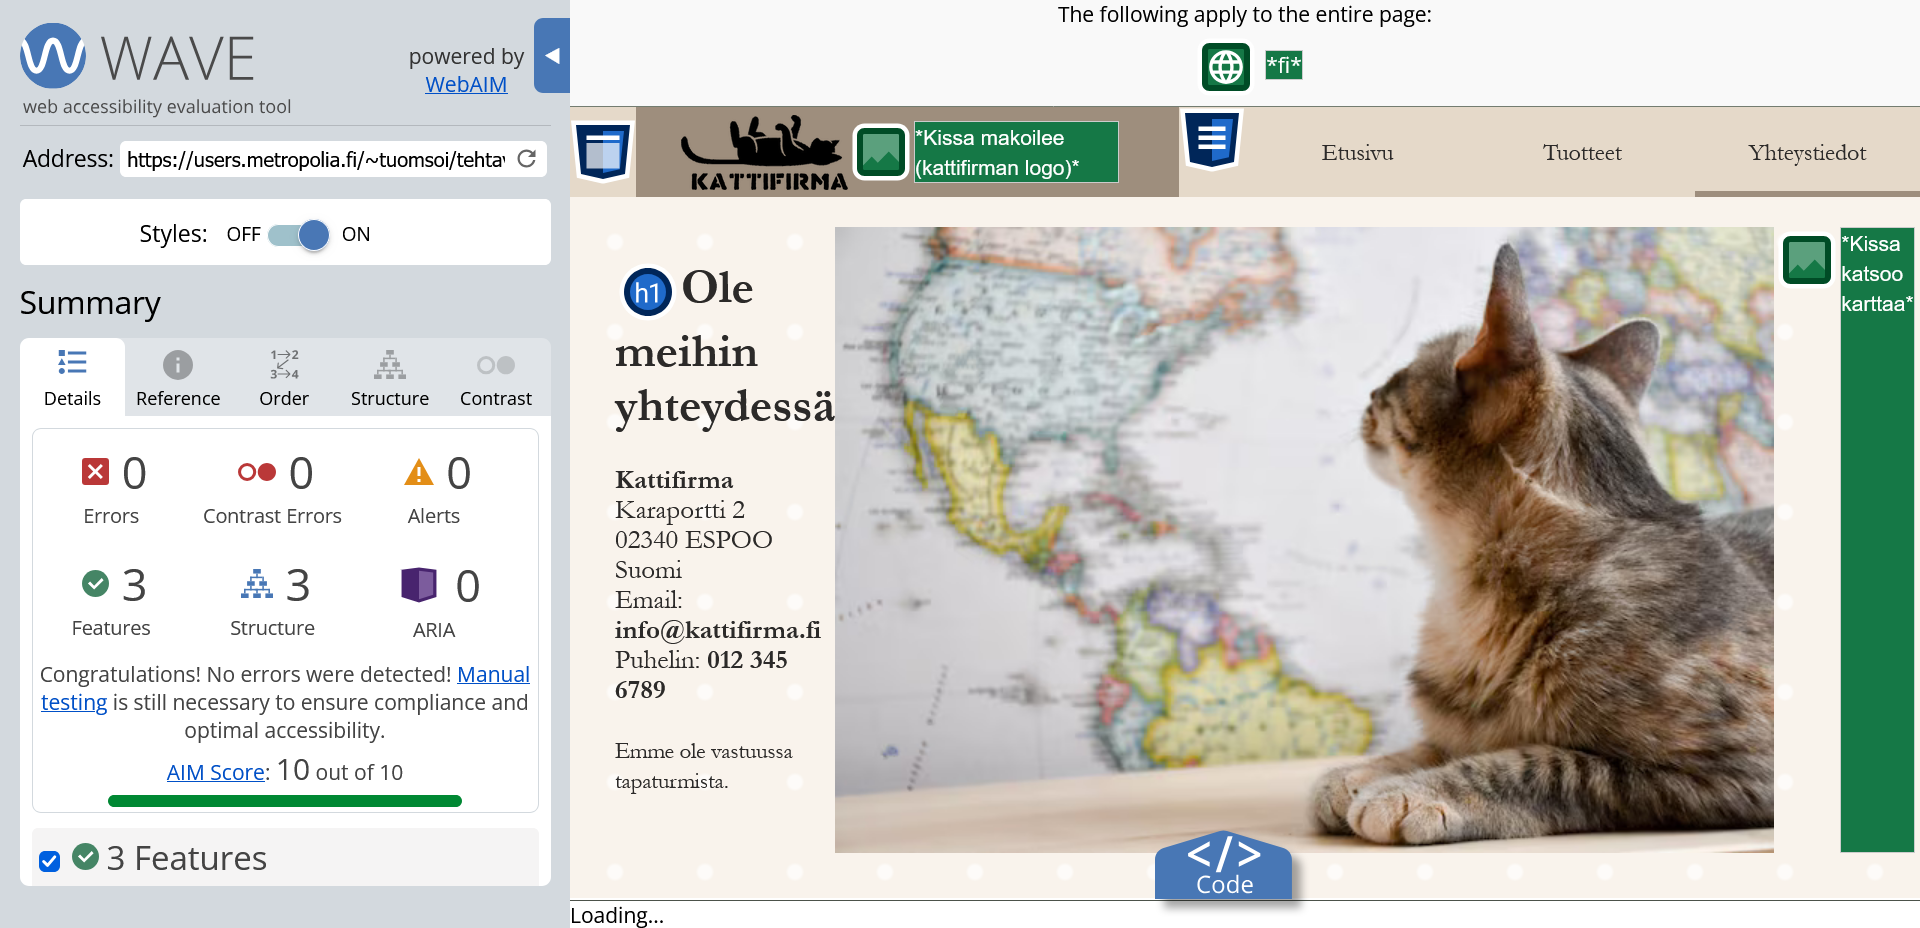
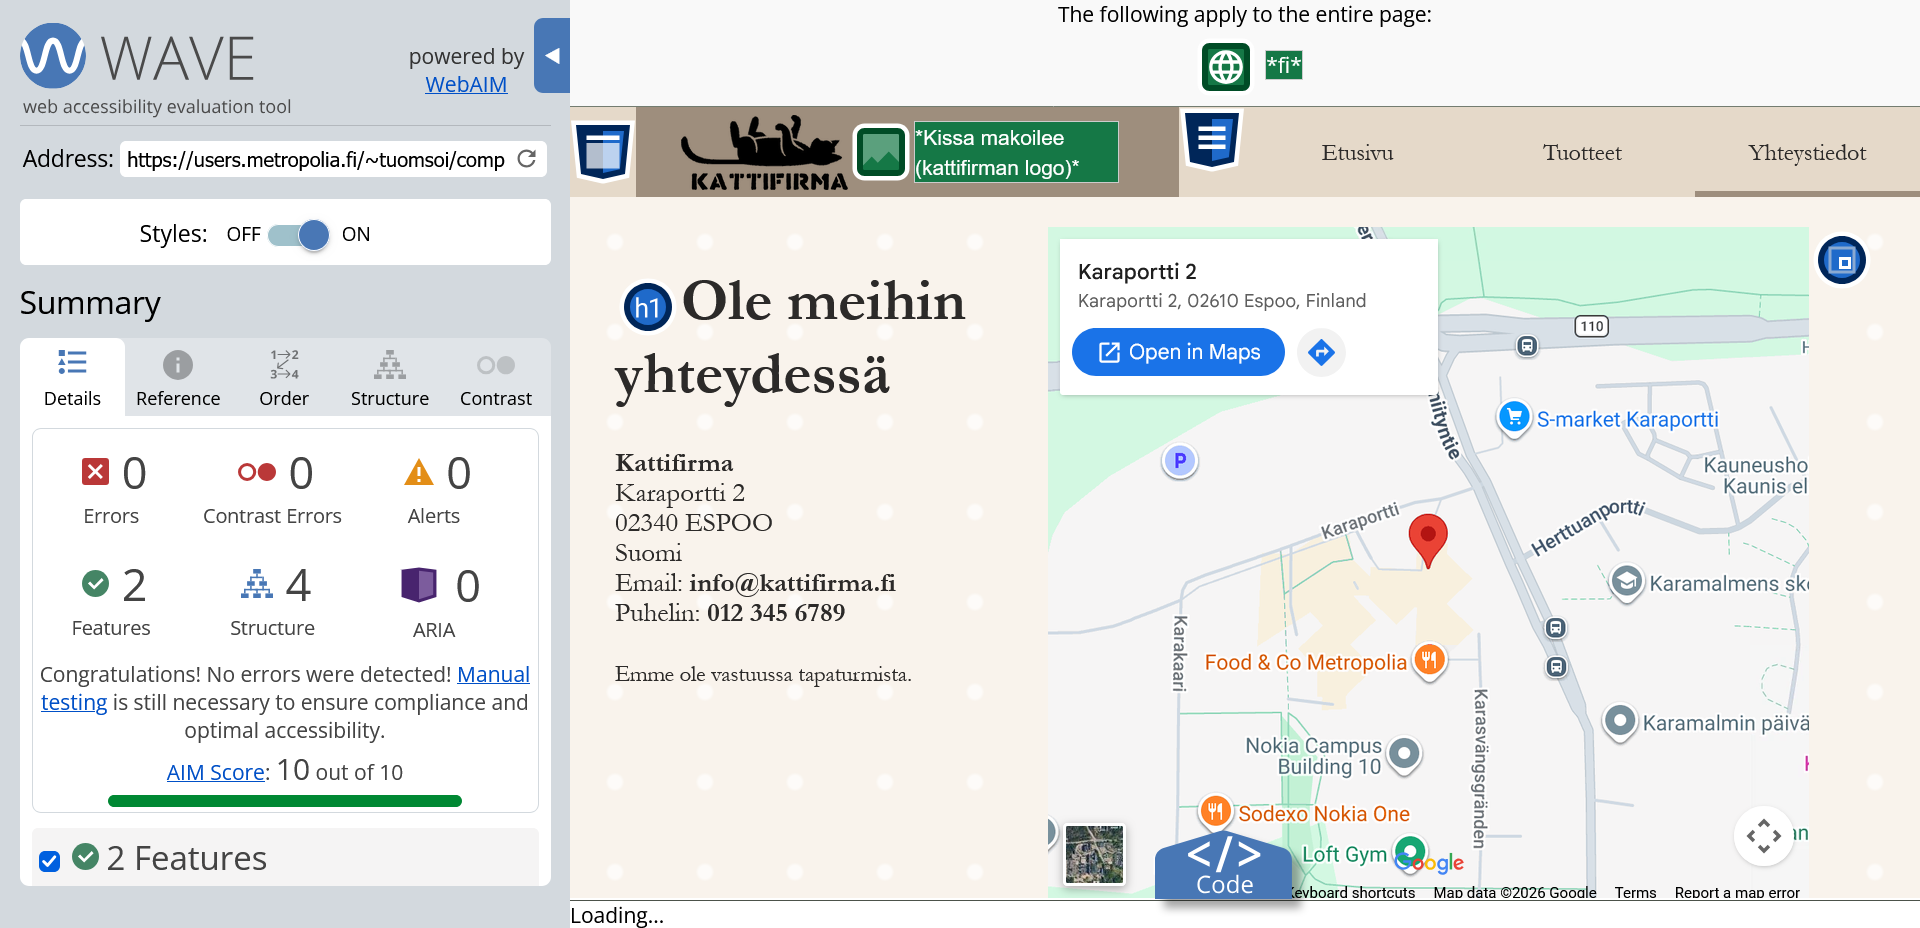
Etusivu päivitetty

diff --git a/index.html b/index.html
@@ -3,20 +3,23 @@
 
 <head>
     <meta charset="UTF-8">
-    <link rel="stylesheet" type="text/css" href="index.css">
+    <link rel="stylesheet" type="text/css" href="style.css">
     <title>Kotisivu</title>
 </head>
 
 <body>
-    <h1>Kotisivu</h1>
-    <p>Linkkejä omille nettisivuille</p>
-    <ul style="list-style-type: none; padding: 0;">
-        <li>
-            <a href="johdanto/johdanto.html">Johdanto</a>
-        </li>
-        <li>
-            <a href="company-x/home.html">Kattifirma</a>
-        </li>
-    </ul>
-    <img src="https://encrypted-tbn0.gstatic.com/images?q=tbn:ANd9GcQbBHpsN8WIrQx8VCmJd5cGxwiDTN_LQbQ4xZ0FsSQGsncp7vGQnvYLNAA&s=10" alt="Kisumirri">
+    <div class="content">
+        <h1>Linkkejä tehtäviin</h1>
+        <h2>Sivustot</h2>
+        <ul>
+            <li><a href="johdanto/johdanto.html">Johdanto</a></li>
+            <li><a href="company-x/home.html">Kattifirma</a></li>
+        </ul>
+        <h2>Kansiot</h2>
+        <ul>
+            <li><a href="Javascript2/index.html">JavaScript 1 ja 2</a></li>
+            <li><a href="Javascript3/index.html">JavaScript 3</a></li>
+        </ul>
+    </div>
+    <img src="seal_of_approval.png" alt="Kisumirri">
 </body>

diff --git a/Javascript2/tehtava_3/script.js b/Javascript2/tehtava_3/script.js
@@ -1,14 +1,14 @@
 "use strict";
 
-let numero1 = parseInt(prompt("Anna 1. kokonaisluku."))
-let numero2 = parseInt(prompt("Anna 2. kokonaisluku."))
-let numero3 = parseInt(prompt("Anna 3. kokonaisluku."))
+let numero1 = parseInt(prompt("Anna kokonaisluku. (1/3)"))
+let numero2 = parseInt(prompt("Anna kokonaisluku. (2/3)"))
+let numero3 = parseInt(prompt("Anna kokonaisluku. (3/3)"))
 
 let summa = numero1 + numero2 + numero3
 let tulo = numero1 * numero2 * numero3
 let keskiarvo = (numero1 + numero2 + numero3) / 3
 
-document.getElementById("Numerot").textContent = `Antamasi luvut: ${numero1}, ${numero2} ja ${numero3} `
+document.getElementById("Numerot").textContent = `Antamasi luvut: ${numero1}, ${numero2} ja ${numero3}.`;
 document.getElementById("Summa").textContent = `Lukujen summa on ${summa}.`;
 document.getElementById("Tulo").textContent = `Lukujen tulo on ${tulo}.`;
 document.getElementById("Keskiarvo").textContent = `Lukujen keskiarvo on ${keskiarvo}.`;

diff --git a/Javascript2/style.css b/Javascript2/style.css
@@ -1,0 +1,49 @@
+body {
+    margin: 0;
+    padding: 20px;
+    box-sizing: border-box;
+    display: grid;
+    grid-template-rows: 1fr;
+    font-family: Garamond, Baskerville, "Baskerville Old Face", serif;
+    background-color: #f9f3ec;
+    background-image: radial-gradient(#fdfbf9 10%, transparent 15%);
+    background-size: 60px 60px; 
+    min-height: 100vh;
+    color: #2C2A29;
+}
+
+.content {
+    display: flex;
+    flex-direction: column;
+    align-items: start;
+}
+
+h1 {
+    font-size: 40px;
+}
+
+ul {
+    list-style-type: none;
+    margin: 0;
+    padding: 0;
+}
+
+a {
+  display: inline-block;
+  font-size: larger;
+  text-decoration: none;
+  color: #2C2A29;
+  transition: all 0.2s ease;
+  padding-bottom: 3px;
+}
+
+a:hover {
+  color: #c05c33;
+  transform: translateX(6px);
+}
+
+img {
+    justify-self: end;
+    align-self: end;
+    max-width: 250px;
+}

diff --git a/Javascript3/style.css b/Javascript3/style.css
@@ -1,0 +1,49 @@
+body {
+    margin: 0;
+    padding: 20px;
+    box-sizing: border-box;
+    display: grid;
+    grid-template-rows: 1fr;
+    font-family: Garamond, Baskerville, "Baskerville Old Face", serif;
+    background-color: #f9f3ec;
+    background-image: radial-gradient(#fdfbf9 10%, transparent 15%);
+    background-size: 60px 60px; 
+    min-height: 100vh;
+    color: #2C2A29;
+}
+
+.content {
+    display: flex;
+    flex-direction: column;
+    align-items: start;
+}
+
+h1 {
+    font-size: 40px;
+}
+
+ul {
+    list-style-type: none;
+    margin: 0;
+    padding: 0;
+}
+
+a {
+  display: inline-block;
+  font-size: larger;
+  text-decoration: none;
+  color: #2C2A29;
+  transition: all 0.2s ease;
+  padding-bottom: 3px;
+}
+
+a:hover {
+  color: #c05c33;
+  transform: translateX(6px);
+}
+
+img {
+    justify-self: end;
+    align-self: end;
+    max-width: 250px;
+}

diff --git a/style.css b/style.css
@@ -1,0 +1,49 @@
+body {
+    margin: 0;
+    padding: 20px;
+    box-sizing: border-box;
+    display: grid;
+    grid-template-rows: 1fr;
+    font-family: Garamond, Baskerville, "Baskerville Old Face", serif;
+    background-color: #f9f3ec;
+    background-image: radial-gradient(#fdfbf9 10%, transparent 15%);
+    background-size: 60px 60px; 
+    min-height: 100vh;
+    color: #2C2A29;
+}
+
+.content {
+    display: flex;
+    flex-direction: column;
+    align-items: start;
+}
+
+h1 {
+    font-size: 40px;
+}
+
+ul {
+    list-style-type: none;
+    margin: 0;
+    padding: 0;
+}
+
+a {
+  display: inline-block;
+  font-size: larger;
+  text-decoration: none;
+  color: #2C2A29;
+  transition: all 0.2s ease;
+  padding-bottom: 3px;
+}
+
+a:hover {
+  color: #c05c33;
+  transform: translateX(6px);
+}
+
+img {
+    justify-self: end;
+    align-self: end;
+    max-width: 250px;
+}

diff --git a/Javascript2/index.html b/Javascript2/index.html
@@ -1,0 +1,22 @@
+<!DOCTYPE html>
+<html lang="fi">
+
+<head>
+    <meta charset="UTF-8">
+    <link rel="stylesheet" type="text/css" href="style.css">
+    <title>Kotisivu</title>
+</head>
+
+<body>
+    <div class="content">
+        <h1>JavaScript 1 ja 2</h1>
+        <ul>
+            <li><a href="tehtava_1/site.html">Tehtävä 1</a></li>
+            <li><a href="tehtava_2/site.html">Tehtävä 2</a></li>
+            <li><a href="tehtava_3/site.html">Tehtävä 3</a></li>
+            <li><a href="tehtava_4/site.html">Tehtävä 4</a></li>
+            <li><a href="tehtava_5/site.html">Tehtävä 5</a></li>
+        </ul>
+    </div>
+    <img src="../seal_of_approval.png" alt="Kisumirri">
+</body>

diff --git a/Javascript3/index.html b/Javascript3/index.html
@@ -1,0 +1,22 @@
+<!DOCTYPE html>
+<html lang="fi">
+
+<head>
+    <meta charset="UTF-8">
+    <link rel="stylesheet" type="text/css" href="style.css">
+    <title>Kotisivu</title>
+</head>
+
+<body>
+    <div class="content">
+        <h1>JavaScript 3</h1>
+        <ul>
+            <li><a href="tehtava_1/site.html">Tehtävä 1</a></li>
+            <li><a href="tehtava_2/site.html">Tehtävä 2</a></li>
+            <li><a href="tehtava_3/site.html">Tehtävä 3</a></li>
+            <li><a href="tehtava_4/site.html">Tehtävä 4</a></li>
+            <li><a href="tehtava_5/site.html">Tehtävä 5</a></li>
+        </ul>
+    </div>
+    <img src="../seal_of_approval.png" alt="Kisumirri">
+</body>

diff --git a/Javascript2/tehtava_4/script.js b/Javascript2/tehtava_4/script.js
@@ -1,0 +1,13 @@
+"use strict"
+
+let nimi = prompt("Mikä on nimesi?")
+let numero = Math.floor(Math.random() * 4)
+
+if (numero == 0)
+    {document.getElementById("Tupa").textContent = `${nimi}, sinä olet Rohkelikko.`}
+else if (numero == 1)
+    {document.getElementById("Tupa").textContent = `${nimi}, sinä olet Luihunen.`}
+else if (numero == 2)
+    {document.getElementById("Tupa").textContent = `${nimi}, sinä olet Puuskupuh.`}
+else if (numero == 3)
+    {document.getElementById("Tupa").textContent = `${nimi}, sinä olet Korpinkynsi.`}

diff --git a/Javascript2/tehtava_5/script.js b/Javascript2/tehtava_5/script.js
@@ -1,0 +1,11 @@
+"use strict"
+
+let vuosi = parseInt(prompt("Anna vuosiluku."))
+
+if (vuosi % 4 == 0)
+    {if ((vuosi % 100 == 0) && !(vuosi % 400 == 0))
+        {document.getElementById("Vastaus").textContent = `Vuosi ${vuosi} ei ole karkausvuosi.`}
+    else
+        {document.getElementById("Vastaus").textContent = `Vuosi ${vuosi} on karkausvuosi.`}}
+else
+    {document.getElementById("Vastaus").textContent = `Vuosi ${vuosi} Ei ole karkausvuosi.`}

diff --git a/Javascript2/tehtava_5/site.html b/Javascript2/tehtava_5/site.html
@@ -1,0 +1,13 @@
+<!DOCTYPE html>
+<html lang="fi">
+
+<head>
+    <meta charset="UTF-8">
+    <link rel="stylesheet" type="text/css" href="../style.css">
+    <script src="script.js" defer></script>
+    <title>JavaScript 1 ja 2</title>
+</head>
+
+<body>
+    <p id="Vastaus"></p>
+</body>

diff --git a/Javascript2/tehtava_4/site.html b/Javascript2/tehtava_4/site.html
@@ -9,4 +9,5 @@
 </head>
 
 <body>
+    <p id="Tupa"></p>
 </body>
